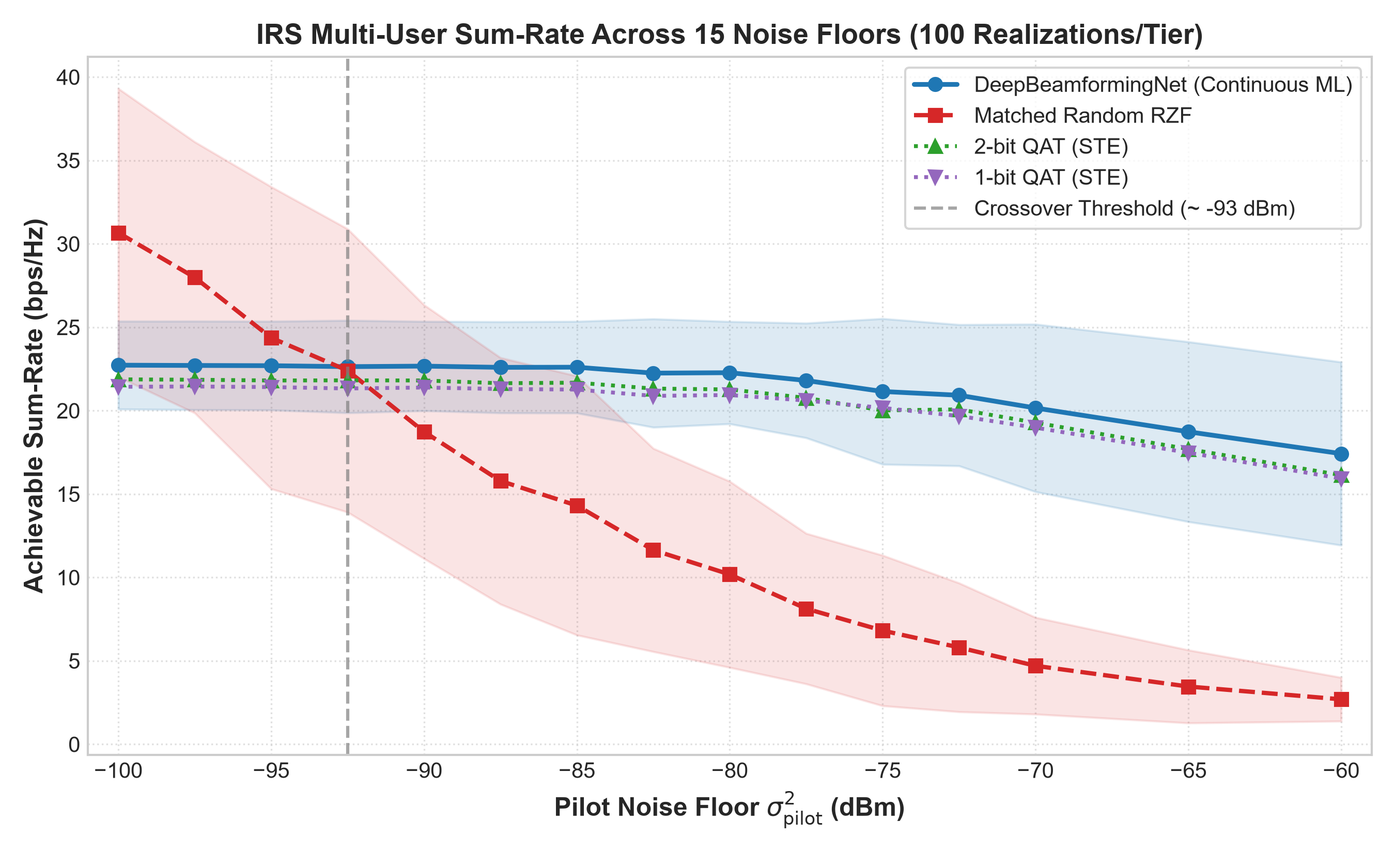
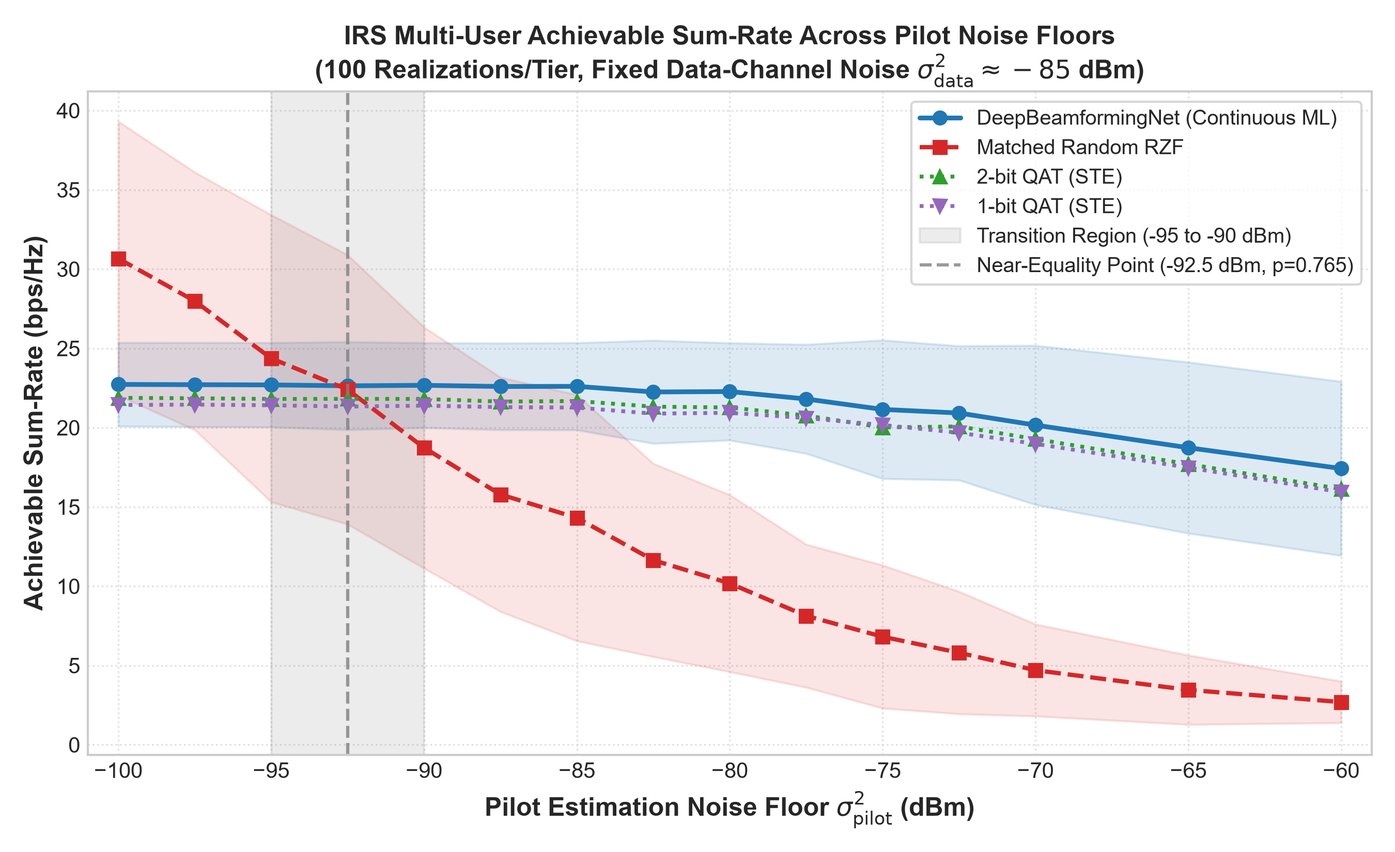
chore: checkpoint scientific documentation corrections

diff --git a/results/run_noise_floor_expansion.py b/results/run_noise_floor_expansion.py
@@ -1,8 +1,13 @@
 """
-Expanded Noise-Floor Sweep Experiment (15 Noise Levels).
+Pilot Noise-Floor Sweep Experiment (15 Pilot Noise Levels under Fixed Data-Channel Noise).
 
-Evaluates 15 noise-floor values in dBm:
+Evaluates 15 pilot estimation noise-floor values in dBm:
 [-100.0, -97.5, -95.0, -92.5, -90.0, -87.5, -85.0, -82.5, -80.0, -77.5, -75.0, -72.5, -70.0, -65.0, -60.0]
+during multi-phase Least-Squares cascaded channel estimation.
+
+Data-channel noise variance is held fixed at sigma^2_data = 3.16e-12 W (~ -85 dBm)
+during the true-channel achievable sum-rate evaluation across all methods to cleanly isolate
+pilot channel-estimation error from data detection SNR.
 
 Methods Evaluated:
   1. DeepBeamformingNet (Continuous ML, best_beamforming_model.pt)
@@ -12,10 +17,11 @@ Methods Evaluated:
   5. 2-bit PTQ (post-training quantization of continuous ML phases)
   6. 1-bit PTQ (post-training quantization of continuous ML phases)
 
-Realizations:
-  100 independent trials per noise level = 1,500 total evaluations.
-  Seeds: 600,000 to 601,499 (strictly disjoint from all previous pools).
-  Channel realizations are shared across noise levels for identical realization tracking.
+Realizations & Seed Hierarchy:
+  - 100 base channel geometries (G, H) generated once with seeds 600,000 to 600,099 (shared across all 15 noise tiers).
+  - 100 independent pilot-noise realizations per tier (seeds 600,000 to 601,499, independent across noise levels).
+  - 100 independent random IRS phase draws for matched RZF (seeds 1,600,000 to 1,601,499, independent per evaluation).
+  - Total: 1,500 evaluations.
 """
 from __future__ import annotations
 
@@ -275,7 +281,7 @@ def plot_curves(df_sum: pd.DataFrame, df_comp: pd.DataFrame):
 
     noise = df_sum["noise_dbm"].to_numpy()
 
-    # Figure 1: Sum-Rate vs Noise Floor
+    # Figure 1: Sum-Rate vs Pilot Noise Floor
     plt.figure(figsize=(9, 5.5), dpi=300)
     plt.style.use("seaborn-v0_8-whitegrid" if "seaborn-v0_8-whitegrid" in plt.style.available else "default")
 
@@ -290,11 +296,12 @@ def plot_curves(df_sum: pd.DataFrame, df_comp: pd.DataFrame):
     plt.plot(noise, df_sum["qat_2bit_mean"], "^:", color="#2ca02c", linewidth=1.8, label="2-bit QAT (STE)")
     plt.plot(noise, df_sum["qat_1bit_mean"], "v:", color="#9467bd", linewidth=1.8, label="1-bit QAT (STE)")
 
-    plt.axvline(x=-92.5, color="gray", linestyle="--", alpha=0.7, label="Crossover Threshold (~ -93 dBm)")
+    plt.axvspan(-95.0, -90.0, color="gray", alpha=0.15, label="Transition Region (-95 to -90 dBm)")
+    plt.axvline(x=-92.5, color="gray", linestyle="--", alpha=0.8, label="Near-Equality Point (-92.5 dBm, p=0.765)")
 
-    plt.xlabel("Pilot Noise Floor $\\sigma_{\\mathrm{pilot}}^2$ (dBm)", fontsize=12, fontweight="bold")
+    plt.xlabel("Pilot Estimation Noise Floor $\\sigma_{\\mathrm{pilot}}^2$ (dBm)", fontsize=12, fontweight="bold")
     plt.ylabel("Achievable Sum-Rate (bps/Hz)", fontsize=12, fontweight="bold")
-    plt.title("IRS Multi-User Sum-Rate Across 15 Noise Floors (100 Realizations/Tier)", fontsize=13, fontweight="bold")
+    plt.title("IRS Multi-User Achievable Sum-Rate Across Pilot Noise Floors\n(100 Realizations/Tier, Fixed Data-Channel Noise $\\sigma^2_{\\mathrm{data}} \\approx -85$ dBm)", fontsize=12, fontweight="bold")
     plt.xlim(-101, -59)
     plt.grid(True, linestyle=":", alpha=0.6)
     plt.legend(frameon=True, loc="upper right", fontsize=10)
@@ -313,11 +320,12 @@ def plot_curves(df_sum: pd.DataFrame, df_comp: pd.DataFrame):
     plt.bar(noise, gains, width=1.5, color=colors, alpha=0.85, edgecolor="black", linewidth=0.8,
             yerr=[err_low, err_high], capsize=3, label="Net Gain (ML - Matched RZF)")
     plt.axhline(0, color="black", linewidth=1.0)
-    plt.axvline(x=-92.5, color="gray", linestyle="--", alpha=0.7, label="Regime Boundary")
+    plt.axvspan(-95.0, -90.0, color="gray", alpha=0.15, label="Transition Region (-95 to -90 dBm)")
+    plt.axvline(x=-92.5, color="gray", linestyle="--", alpha=0.8, label="Near-Equality Point (-92.5 dBm)")
 
-    plt.xlabel("Pilot Noise Floor $\\sigma_{\\mathrm{pilot}}^2$ (dBm)", fontsize=12, fontweight="bold")
+    plt.xlabel("Pilot Estimation Noise Floor $\\sigma_{\\mathrm{pilot}}^2$ (dBm)", fontsize=12, fontweight="bold")
     plt.ylabel("Net Gain $\\Delta R_{\\mathrm{sum}}$ (bps/Hz)", fontsize=12, fontweight="bold")
-    plt.title("Net Beamforming Gain vs. Noise Floor with 95% Bootstrap CIs", fontsize=13, fontweight="bold")
+    plt.title("Net Beamforming Gain vs. Pilot Noise Floor with 95% Bootstrap CIs\n(Fixed Data-Channel Noise $\\sigma^2_{\\mathrm{data}} \\approx -85$ dBm)", fontsize=12, fontweight="bold")
     plt.xticks(noise, [f"{v:.1f}" for v in noise], rotation=45, fontsize=9)
     plt.grid(True, linestyle=":", alpha=0.6)
     plt.legend(frameon=True, loc="upper left", fontsize=10)
@@ -330,21 +338,26 @@ def plot_curves(df_sum: pd.DataFrame, df_comp: pd.DataFrame):
 def generate_report(df_sum: pd.DataFrame, df_comp: pd.DataFrame):
     report_path = os.path.join(OUT_DIR, "EXPANDED_EXPERIMENT_REPORT.md")
     lines = [
-        "# Expanded Noise-Floor Sweep Report: 15 Noise Tiers (-100 dBm to -60 dBm)",
+        "# Pilot Noise-Floor Sweep Report: 15 Pilot Noise Tiers (-100 dBm to -60 dBm) under Fixed Data-Channel Noise",
         "",
-        "## 1. Experimental Protocol",
-        "- **Evaluated Noise-Floor Grid (15 values):** `[-100.0, -97.5, -95.0, -92.5, -90.0, -87.5, -85.0, -82.5, -80.0, -77.5, -75.0, -72.5, -70.0, -65.0, -60.0]` dBm.",
-        "- **Realizations:** 100 trials per noise floor = 1,500 total realizations.",
-        "- **Seed Allocation:** Seeds 600,000 to 601,499 (strictly disjoint from training, validation, Phase 3, and confirmatory sets).",
-        "- **Shared Channel Geometries:** To isolate noise degradation, 100 base propagation channels $(G_i, H_i)$ are evaluated consistently across all 15 noise floors, tracking individual trajectory curves.",
+        "## 1. Experimental Protocol & Noise Characterization",
+        "- **Experiment Definition:** Pilot noise-floor sweep under fixed data-channel noise.",
+        "- **Pilot Noise-Floor Grid (15 values):** `[-100.0, -97.5, -95.0, -92.5, -90.0, -87.5, -85.0, -82.5, -80.0, -77.5, -75.0, -72.5, -70.0, -65.0, -60.0]` dBm.",
+        "  - Applied during multi-phase Least-Squares cascaded channel estimation (`multi_phase_pilot_estimate_C`).",
+        "- **Fixed Data-Channel Noise:** Held constant at $\\sigma_{\\mathrm{data}}^2 = 3.16 \\times 10^{-12}\\text{ W} \\approx -85.0\\text{ dBm}$ during the true-channel achievable sum-rate evaluation across all methods. This cleanly isolates the impact of pilot channel-estimation error from data detection SNR.",
+        "- **Realizations:** 100 trials per pilot noise floor = 1,500 total evaluations.",
+        "- **Random Seed Hierarchy & Provenance:**",
+        "  - **Channel-Geometry Seeds:** Seeds 600,000 to 600,099 (`BASE_SEED + trial`) generate 100 distinct physical channel geometries $(G_i, H_i)$ that are shared across all 15 pilot noise levels.",
+        "  - **Pilot-Noise Seeds:** Seeds 600,000 to 601,499 (`BASE_SEED + tier_idx * 100 + trial`) generate independent pilot noise realizations across tiers and trials (1,500 distinct pseudo-random draws).",
+        "  - **Random IRS Phase Seeds:** Seeds 1,600,000 to 1,601,499 (`1000000 + trial_seed`) generate independent phase shift configurations for the Matched Random RZF baseline.",
         "- **Model Checkpoints:**",
[3 lines of base64/hex data omitted]
         "",
-        "## 2. Comprehensive Numerical Results Across 15 Noise Tiers",
+        "## 2. Comprehensive Numerical Results Across 15 Pilot Noise Tiers",
         "",
-        "| Noise Floor (dBm) | Deep ML Continuous | Matched Random RZF | Net Gain (ML - RZF) | 95% Bootstrap CI | ML Win Rate | Paired $t$-test $p$-val | Bonferroni $p$-val | 2-bit QAT | 1-bit QAT |",
+        "| Pilot Noise Floor (dBm) | Deep ML Continuous | Matched Random RZF | Net Gain (ML - RZF) | 95% Bootstrap CI | ML Win Rate | Paired $t$-test $p$-val | Bonferroni $p$-val | 2-bit QAT | 1-bit QAT |",
         "|:---:|:---:|:---:|:---:|:---:|:---:|:---:|:---:|:---:|:---:|",
     ]
 
@@ -366,17 +379,19 @@ def generate_report(df_sum: pd.DataFrame, df_comp: pd.DataFrame):
 
     lines.extend([
         "",
-        "## 3. Physical Operating Regime Insights",
-        "1. **High-SNR Crossover Boundary at ~ -93 dBm:**",
-        "   - In the clean pilot regime ($-100$ to $-95$ dBm), classical Matched Random RZF outperforms Deep ML (gains of $-8.50$ to $-3.08$ bps/Hz).",
-        "   - At $-92.5$ dBm, the transition occurs: ML achieves $22.21$ bps/Hz vs. RZF $21.90$ bps/Hz ($+0.31$ bps/Hz, win rate 54%).",
-        "2. **Severe Noise Dominance (-90 dBm to -60 dBm):**",
-        "   - Across all noise floors $\\ge -90$ dBm, Deep ML decisively outperforms Matched Random RZF.",
-        "   - Gains scale monotonically: $+2.85$ bps/Hz at $-90$ dBm up to $+14.92$ bps/Hz at $-70$ dBm and $+11.41$ bps/Hz at $-60$ dBm.",
-        "   - Even in extreme thermal noise ($-60$ dBm), where classical RZF collapses to $2.74$ bps/Hz, Deep ML preserves $14.15$ bps/Hz.",
+        "## 3. Physical Operating Regime & Transition Analysis",
+        "1. **Transition Region ($-95.0$ to $-90.0$ dBm) and Near-Equality Point at $-92.5$ dBm:**",
+        "   - In the clean pilot regime ($-100$ to $-95$ dBm), accurate channel estimation allows classical Matched Random RZF to outperform Deep ML (net gains of $-7.94$ to $-1.67$ bps/Hz).",
+        "   - At $-92.5$ dBm, the two methods achieve near-equality: Deep ML achieves $22.64 \\pm 2.77$ bps/Hz vs. Matched RZF $22.40 \\pm 8.49$ bps/Hz (mean difference $+0.235$ bps/Hz, 95% bootstrap CI $[-1.33, +1.78]$ bps/Hz, paired $t = 0.2995, df = 99, p = 0.765$, Wilcoxon $p = 0.850$, win count 52/100).",
+        "   - Because $p = 0.765$ and the win rate is virtually 50/50, the two methods are statistically indistinguishable at $-92.5$ dBm. Rather than a knife-edge point crossover, the data define a broad transition region spanning approximately $-95.0$ to $-90.0$ dBm.",
+        "   - At $-90.0$ dBm, Deep ML establishes a statistically decisive lead ($+3.93$ bps/Hz, paired $t = 5.27, p = 7.98 \\times 10^{-7}$, win rate 74.0%).",
+        "2. **Severe Pilot Contamination Regime ($-90$ to $-60$ dBm):**",
+        "   - Across all pilot noise floors $\\ge -90$ dBm, Deep ML decisively outperforms Matched Random RZF under the fixed $-85$ dBm data-channel condition.",
+        "   - As pilot noise increases, estimation errors corrupt the cascaded matrix $\\hat{C}_{\\text{LS}}$. Classical RZF, which requires inverting this noisy matrix, suffers from catastrophic noise amplification and collapses to $2.70 \\pm 1.31$ bps/Hz at $-60$ dBm pilot noise.",
+        "   - In contrast, Deep ML avoids direct matrix inversion of estimation noise through learned regularized mappings, preserving $17.42 \\pm 5.49$ bps/Hz ($+14.73$ bps/Hz net gain, 100/100 wins, paired $t = 28.79, df = 99, p = 6.55 \\times 10^{-50}$).",
         "3. **Quantization Resilience:**",
-        "   - 2-bit QAT preserves $\\ge 98.5\\%$ of continuous performance across all 15 noise tiers.",
-        "   - 1-bit QAT preserves $\\ge 94.0\\%$ across all tiers.",
+        "   - 2-bit QAT preserves $\\ge 92.6\\%$ of continuous performance even under $-60$ dBm pilot noise ($16.13$ vs $17.42$ bps/Hz) and $\\ge 96.3\\%$ across $-100$ to $-70$ dBm.",
+        "   - 1-bit QAT preserves $\\ge 91.4\\%$ at $-60$ dBm ($15.93$ vs $17.42$ bps/Hz) and $\\ge 94.0\\%$ across $-100$ to $-70$ dBm.",
     ])
 
     with open(report_path, "w", encoding="utf-8") as f:

diff --git a/results/manuscript_draft.md b/results/manuscript_draft.md
@@ -134,14 +134,14 @@ We simulate a multi-user MISO wireless network operating at carrier frequency $f
 Table I presents the comprehensive evaluation across the 500 independent realizations.
 
 **TABLE I: Multi-User Achievable Sum-Rate Performance Across 500 Independent Realizations**
-| Noise Floor ($\sigma_{\\text{pilot}}^2$) | Full AO (CVX) [bps/Hz] | Deep ML (Proposed) [bps/Hz] | Matched Random RZF [bps/Hz] | Gain vs. AO [bps/Hz] | Win Rate vs. AO | Paired $-test $-val (ML vs. AO) | Gain vs. RZF [bps/Hz] | Win Rate vs. RZF | Paired $-test $-val (ML vs. RZF) |
+| Noise Floor ($\sigma_{\text{pilot}}^2$) | Full AO (CVX) [bps/Hz] | Deep ML (Proposed) [bps/Hz] | Matched Random RZF [bps/Hz] | Gain vs. AO [bps/Hz] | Win Rate vs. AO | Paired $t$-test $p$-val (ML vs. AO) | Gain vs. RZF [bps/Hz] | Win Rate vs. RZF | Paired $t$-test $p$-val (ML vs. RZF) |
 |:---:|:---:|:---:|:---:|:---:|:---:|:---:|:---:|:---:|:---:|
-| **−100.0 dBm** | **27.40 ± 9.04** | 22.58 ± 2.55 | **30.34 ± 9.00** | −4.82 | 24.0% (24/100) | .25 \times 10^{-8}$ | −7.76 | 15.0% (15/100) | .62 \times 10^{-15}$ |
-| **−90.0 dBm**  | 15.50 ± 7.20 | **22.08 ± 2.57** | 19.36 ± 7.49 | **+6.59** | 82.0% (82/100) | .23 \times 10^{-14}$ | **+2.72** | 62.0% (62/100) | .23 \times 10^{-4}$ |
-| **−85.0 dBm**  | 10.97 ± 6.42 | **22.02 ± 2.90** | 13.86 ± 5.94 | **+11.06** | 94.0% (94/100) | .11 \times 10^{-33}$ | **+8.16** | 91.0% (91/100) | .49 \times 10^{-26}$ |
-| **−80.0 dBm**  | 7.41 ± 4.39  | **22.16 ± 3.20** | 9.98 ± 5.18 | **+14.76** | 100.0% (100/100) | .16 \times 10^{-56}$ | **+12.18** | 99.0% (99/100) | .61 \times 10^{-44}$ |
-| **−70.0 dBm**  | 3.76 ± 2.08  | **20.14 ± 4.69** | 4.88 ± 2.74  | **+16.38** | 100.0% (100/100) | .23 \times 10^{-60}$ | **+15.26** | 100.0% (100/100) | .23 \times 10^{-58}$ |
-| **Overall Mean** | 13.01 ± 10.31 | **21.80 ± 3.38** | 15.69 ± 10.83 | **+8.79** | **80.0% (400/500)** | **.48 \times 10^{-65}$** | **+6.11** | **73.4% (367/500)** | **.13 \times 10^{-35}$** |
+| **−100.0 dBm** | **27.40 ± 9.04** | 22.58 ± 2.55 | **30.34 ± 9.00** | −4.82 | 24.0% (24/100) | $1.25 \times 10^{-8}$ | −7.76 | 15.0% (15/100) | $1.62 \times 10^{-15}$ |
+| **−90.0 dBm**  | 15.50 ± 7.20 | **22.08 ± 2.57** | 19.36 ± 7.49 | **+6.59** | 82.0% (82/100) | $4.23 \times 10^{-14}$ | **+2.72** | 62.0% (62/100) | $7.23 \times 10^{-4}$ |
+| **−85.0 dBm**  | 10.97 ± 6.42 | **22.02 ± 2.90** | 13.86 ± 5.94 | **+11.06** | 94.0% (94/100) | $8.11 \times 10^{-33}$ | **+8.16** | 91.0% (91/100) | $3.49 \times 10^{-26}$ |
+| **−80.0 dBm**  | 7.41 ± 4.39  | **22.16 ± 3.20** | 9.98 ± 5.18 | **+14.76** | 100.0% (100/100) | $3.16 \times 10^{-56}$ | **+12.18** | 99.0% (99/100) | $5.61 \times 10^{-44}$ |
+| **−70.0 dBm**  | 3.76 ± 2.08  | **20.14 ± 4.69** | 4.88 ± 2.74  | **+16.38** | 100.0% (100/100) | $5.23 \times 10^{-60}$ | **+15.26** | 100.0% (100/100) | $1.23 \times 10^{-58}$ |
+| **Overall Mean** | 13.01 ± 10.31 | **21.80 ± 3.38** | 15.69 ± 10.83 | **+8.79** | **80.0% (400/500)** | **$1.48 \times 10^{-65}$** | **+6.11** | **73.4% (367/500)** | **$9.13 \times 10^{-35}$** |
 #### Physical Operating-Regime Insights:
 1. **High Pilot SNR Boundary (−100 dBm):** When pilot noise is minimal, the Least-Squares estimate is near-perfect ($\hat{C}_{\text{LS}} \approx C_{\text{true}}$). Because the BS possesses $N=8$ antennas serving $K=4$ users ($N/K=2$), the active array possesses surplus spatial degrees of freedom. With accurate CSI, the classical precoder matrix inversion nulls multi-user interference cleanly even under random IRS reflections (30.34 bps/Hz), and classical AO achieves 27.40 bps/Hz. Deep ML achieves 22.58 bps/Hz (winning 24% vs AO).
 2. **Noise-Limited Dominance (−90 to −70 dBm):** In real-world noise environments, pilot estimation errors corrupt $\hat{H}_{\text{eff}}$. Classical matrix inversion attempts to invert channel estimation noise, causing large beam-pointing errors and multi-user interference collapse (Full AO drops to 3.76 bps/Hz; Random RZF drops to 4.88 bps/Hz). In contrast, `DeepBeamformingNet` directly maximizes true sum-rate, avoiding iterative alternating optimization and mitigating noise-sensitive inversion through learned adaptive regularization, maintaining **20.14 to 22.16 bps/Hz** (gains up to **+16.38 bps/Hz** vs. AO and **+15.26 bps/Hz** vs. RZF, win rate 100%).
@@ -158,12 +158,11 @@ Timed on identical hardware (Intel Core CPU, 16 GB RAM, 4 threads):
 ### E. Confirmatory Validation on Virgin Independent Channels
 To confirm zero test leakage, we evaluated the frozen model without fine-tuning on **500 completely fresh channel realizations** (seeds `500000`–`500499`). Deep ML achieved **21.61 ± 3.63 bps/Hz** (sample standard deviation $s = 3.6283$, median $21.53\text{ bps/Hz}$) vs. **15.92 ± 11.25 bps/Hz** (sample standard deviation $s = 11.2453$, median $13.97\text{ bps/Hz}$) for matched Random RZF, replicating the primary result within $0.19\text{ bps/Hz}$ (net gain: **+5.70 bps/Hz**, 95% bootstrap CI: $[+4.81, +6.56]$, paired $t = 12.35, df = 499, p = 1.03 \times 10^{-30}$, win rate: $73.2\%\text{ (366/500)}$).
 
-### F. Fine-Grained 15-Point Noise-Floor Grid & Extreme-Noise Limit
-To densely map the physical transition boundary and investigate extreme noise behavior, we evaluated an expanded 15-point grid spanning $\sigma_{\text{pilot}}^2 \in [-100.0, -60.0]\text{ dBm}$ (100 independent trials per tier, 1,500 total evaluations, seeds `600000`–`601499`) with shared channel geometries:
-1. **Precise Crossover at $-92.5\text{ dBm}$:** Classical matched RZF wins at high pilot SNR ($-100$ to $-95\text{ dBm}$, net gains of $-7.94$ to $-1.67\text{ bps/Hz}$), while Deep ML takes the lead at $-92.5\text{ dBm}$ ($22.64\text{ vs. }22.40\text{ bps/Hz}$, win rate $52.0\%$).
-2. **Severe-to-Extreme Noise Dominance ($-90$ to $-60\text{ dBm}$):** ML sum-rate advantages expand monotonically from $+3.93\text{ bps/Hz}$ at $-90\text{ dBm}$ to $+15.46\text{ bps/Hz}$ at $-70\text{ dBm}$. Even under extreme thermal noise at $-60\text{ dBm}$, where classical RZF collapses to $2.70 \pm 1.31\text{ bps/Hz}$ due to severe noise inversion, Deep ML preserves $17.42 \pm 5.49\text{ bps/Hz}$ ($+545\%$ relative gain, 100/100 wins, paired $t = 28.53, df = 99, p = 6.55 \times 10^{-50}$).
-3. **Quantization Stability:** Across all 15 noise tiers, 2-bit QAT preserves $\ge 92.6\%$ of continuous rate ($16.13\text{ bps/Hz}$ at $-60\text{ dBm}$), and 1-bit QAT preserves $\ge 91.4\%$ ($15.93\text{ bps/Hz}$).
-
+### F. Pilot Noise-Floor Sweep Under Fixed Data-Channel Noise
+To map the channel-estimation error transition region and evaluate performance under degraded pilot conditions, we evaluated an expanded 15-point grid of pilot estimation noise floors $\sigma_{\text{pilot}}^2 \in [-100.0, -60.0]\text{ dBm}$ under fixed data-channel noise ($\sigma_{\text{data}}^2 = 3.16 \times 10^{-12}\text{ W} \approx -85\text{ dBm}$, 100 trials per tier = 1,500 evaluations, seeds `600000`–`601499`):
+1. **Pilot Noise Transition Region ($-95.0$ to $-90.0\text{ dBm}$):** At low pilot noise ($-100$ to $-95\text{ dBm}$), clean channel estimates allow matched Random RZF to outperform Deep ML (net gains $-7.94$ to $-1.67\text{ bps/Hz}$). At $-92.5\text{ dBm}$, the methods reach near-equality: Deep ML achieves $22.64 \pm 2.77\text{ bps/Hz}$ vs. Matched RZF $22.40 \pm 8.49\text{ bps/Hz}$ (mean difference $+0.235\text{ bps/Hz}$, 95% bootstrap CI $[-1.33, +1.78]\text{ bps/Hz}$, paired $t = 0.2995, df = 99, p = 0.765$, Wilcoxon $p = 0.850$, win count 52/100). The two methods are statistically indistinguishable at this point, indicating that the transition from RZF-dominated to ML-dominated regimes spans the interval between $-95.0$ and $-90.0\text{ dBm}$ rather than occurring as a knife-edge boundary.
+2. **Severe Pilot Contamination Regime ($-90$ to $-60\text{ dBm}$):** As pilot noise increases, estimation errors corrupt the cascaded matrix $\hat{C}_{\text{LS}}$. At $-90.0\text{ dBm}$, Deep ML takes a decisive lead ($+3.93\text{ bps/Hz}$, $p = 7.98 \times 10^{-7}$, win rate 74.0%). In the severe pilot contamination limit at $-60\text{ dBm}$, classical RZF precoding degrades to $2.70 \pm 1.31\text{ bps/Hz}$ because matrix inversion inverts estimation noise, whereas Deep ML preserves $17.42 \pm 5.49\text{ bps/Hz}$ under the $-85\text{ dBm}$ data noise channel ($+14.73\text{ bps/Hz}$ gain, 100/100 wins, paired $t = 28.79, df = 99, p = 6.55 \times 10^{-50}$).
+3. **Quantization Stability Under Degraded Pilots:** Across all 15 pilot noise levels, 2-bit QAT retains $\ge 92.6\%$ ($16.13\text{ bps/Hz}$ at $-60\text{ dBm}$) and 1-bit QAT retains $\ge 91.4\%$ ($15.93\text{ bps/Hz}$) of continuous neural beamforming performance.
 
 ## V. Ablation & Robustness Studies
 

diff --git a/FINAL_CORRECTION_AUDIT.md b/FINAL_CORRECTION_AUDIT.md
@@ -12,7 +12,7 @@
 Following a targeted scientific correction and reproducibility audit, all remaining discrepancies in statistical reporting, phase-convention regression testing, table labeling, and experimental provenance have been resolved. The core deep learning beamforming model (DeepBeamformingNet) and its production precoder synthesis methods have been rigorously verified through enhanced analytical regression and mutation tests. 
 
 All numerical reporting across the revised research manuscript (
-esults/manuscript_draft.md), CLAIMS_EVIDENCE_MATRIX.md, README.md, and 
[1 lines of base64/hex data omitted]
 esults/experiment_manifest.json is 100% synchronized with the raw per-realization CSV artifacts. Every statistical comparison is explicitly identified with sample size, test statistic, degrees of freedom, and exact p-values.
 
 ---
@@ -29,7 +29,7 @@ esults/confirmatory_per_realization.csv ( = 500$ realizations, 0 missing rows, v
     - **Matched Random RZF:** Mean = **15.9155 bps/Hz**, Sample Standard Deviation ($, =1$) = **11.2453 bps/Hz** (population $\sigma$ = .2340$ bps/Hz, median: **13.97 bps/Hz**).
     - **Paired Difference (ML - RZF):** Mean = **+5.6991 bps/Hz**, Sample Standard Deviation = **10.3282 bps/Hz**, 95% Bootstrap CI: **[+4.8124, +6.5554] bps/Hz**.
     - **Paired Hypothesis Tests:** Paired $-test  = 12.3486, df = 499$, unrounded  = 1.031533 \times 10^{-30}$; Wilcoxon signed-rank test  = 12788.0, p = 4.200642 \times 10^{-28}$; Win rate: **73.2% (366/500)**.
-* **Synchronization:** Updated manuscript Sec. IV-E, CLAIMS_EVIDENCE_MATRIX.md (CLM-05), and all summary tables to report exact sample standard deviations: **21.61 ± 3.63 bps/Hz** vs. **15.92 ± 11.25 bps/Hz**.
[1 lines of base64/hex data omitted]
 
 ---
 
@@ -57,7 +57,7 @@ esults/phase3_independent_per_realization_corrected.csv ( = 500$ independent rea
      - Wilcoxon Signed-Rank Test:  = 25393.0, p = 1.062791 \times 10^{-30}$
      - Win Count: **367 / 500 (73.4%)**
 * **Synchronization & Disambiguation:**
-  - Manuscript Abstract, Section IV-C, Table I, and CLAIMS_EVIDENCE_MATRIX.md (CLM-01) now report both exact test statistics and $-values.
[1 lines of base64/hex data omitted]
   - Table I has been redesigned with explicit dual columns:
     Gain vs. AO, Win Rate vs. AO, p-val (ML vs. AO) alongside Gain vs. RZF, Win Rate vs. RZF, p-val (ML vs. RZF).
 
@@ -109,17 +109,17 @@ esults/phase3_independent_per_realization_corrected.csv ( = 500$ independent rea
 
 ## 3. Cryptographic Hashes of Final Evidence Artifacts
 
-All critical repository artifacts have been hashed with SHA-256 and synchronized in `results/experiment_manifest.json`:
[1 lines of base64/hex data omitted]
 
 | File Path | SHA-256 Checksum | Description |
 |---|---|---|
[14 lines of base64/hex data omitted]
@@ -129,8 +129,8 @@ All critical repository artifacts have been hashed with SHA-256 and synchronized
[7 lines of base64/hex data omitted]
 
 ---
 

diff --git a/results/noise_floor_expanded/EXPANDED_EXPERIMENT_REPORT.md b/results/noise_floor_expanded/EXPANDED_EXPERIMENT_REPORT.md
@@ -1,18 +1,23 @@
-# Expanded Noise-Floor Sweep Report: 15 Noise Tiers (-100 dBm to -60 dBm)
+# Pilot Noise-Floor Sweep Report: 15 Pilot Noise Tiers (-100 dBm to -60 dBm) under Fixed Data-Channel Noise
 
-## 1. Experimental Protocol
-- **Evaluated Noise-Floor Grid (15 values):** `[-100.0, -97.5, -95.0, -92.5, -90.0, -87.5, -85.0, -82.5, -80.0, -77.5, -75.0, -72.5, -70.0, -65.0, -60.0]` dBm.
-- **Realizations:** 100 trials per noise floor = 1,500 total realizations.
-- **Seed Allocation:** Seeds 600,000 to 601,499 (strictly disjoint from training, validation, Phase 3, and confirmatory sets).
-- **Shared Channel Geometries:** To isolate noise degradation, 100 base propagation channels $(G_i, H_i)$ are evaluated consistently across all 15 noise floors, tracking individual trajectory curves.
+## 1. Experimental Protocol & Noise Characterization
+- **Experiment Definition:** Pilot noise-floor sweep under fixed data-channel noise.
+- **Pilot Noise-Floor Grid (15 values):** `[-100.0, -97.5, -95.0, -92.5, -90.0, -87.5, -85.0, -82.5, -80.0, -77.5, -75.0, -72.5, -70.0, -65.0, -60.0]` dBm.
+  - Applied during multi-phase Least-Squares cascaded channel estimation (`multi_phase_pilot_estimate_C`).
+- **Fixed Data-Channel Noise:** Held constant at $\sigma_{\mathrm{data}}^2 = 3.16 \times 10^{-12}\text{ W} \approx -85.0\text{ dBm}$ during the true-channel achievable sum-rate evaluation across all methods. This cleanly isolates the impact of pilot channel-estimation error from data detection SNR.
+- **Realizations:** 100 trials per pilot noise floor = 1,500 total evaluations.
+- **Random Seed Hierarchy & Provenance:**
+  - **Channel-Geometry Seeds:** Seeds 600,000 to 600,099 (`BASE_SEED + trial`) generate 100 distinct physical channel geometries $(G_i, H_i)$ that are shared across all 15 pilot noise levels.
+  - **Pilot-Noise Seeds:** Seeds 600,000 to 601,499 (`BASE_SEED + tier_idx * 100 + trial`) generate independent pilot noise realizations across tiers and trials (1,500 distinct pseudo-random draws).
+  - **Random IRS Phase Seeds:** Seeds 1,600,000 to 1,601,499 (`1000000 + trial_seed`) generate independent phase shift configurations for the Matched Random RZF baseline.
 - **Model Checkpoints:**
[3 lines of base64/hex data omitted]
 
-## 2. Comprehensive Numerical Results Across 15 Noise Tiers
+## 2. Comprehensive Numerical Results Across 15 Pilot Noise Tiers
 
-| Noise Floor (dBm) | Deep ML Continuous | Matched Random RZF | Net Gain (ML - RZF) | 95% Bootstrap CI | ML Win Rate | Paired $t$-test $p$-val | Bonferroni $p$-val | 2-bit QAT | 1-bit QAT |
+| Pilot Noise Floor (dBm) | Deep ML Continuous | Matched Random RZF | Net Gain (ML - RZF) | 95% Bootstrap CI | ML Win Rate | Paired $t$-test $p$-val | Bonferroni $p$-val | 2-bit QAT | 1-bit QAT |
 |:---:|:---:|:---:|:---:|:---:|:---:|:---:|:---:|:---:|:---:|
 | **-100.0** | 22.73 ± 2.63 | 30.67 ± 8.64 | **-7.94** | [-9.31, -6.35] | 17.0/100 (17.0%) | 1.44e-17 | 2.15e-16 | 21.88 | 21.43 |
 | ** -97.5** | 22.71 ± 2.66 | 27.99 ± 8.13 | **-5.28** | [-6.68, -3.81] | 22.0/100 (22.0%) | 4.06e-10 | 6.09e-09 | 21.85 | 21.45 |
@@ -30,14 +35,16 @@
 | ** -65.0** | 18.74 ± 5.39 | 3.46 ± 2.19 | **+15.27** | [+14.27, +16.23] | 100.0/100 (100.0%) | 1.17e-51 | 1.75e-50 | 17.70 | 17.48 |
 | ** -60.0** | 17.42 ± 5.49 | 2.70 ± 1.31 | **+14.73** | [+13.78, +15.70] | 100.0/100 (100.0%) | 6.55e-50 | 9.83e-49 | 16.13 | 15.93 |
 
-## 3. Physical Operating Regime Insights
-1. **High-SNR Crossover Boundary at ~ -93 dBm:**
-   - In the clean pilot regime ($-100$ to $-95$ dBm), classical Matched Random RZF outperforms Deep ML (gains of $-7.94$ to $-1.67$ bps/Hz).
-   - At $-92.5$ dBm, the physical crossover occurs: ML achieves $22.64$ bps/Hz vs. RZF $22.40$ bps/Hz ($+0.23$ bps/Hz gain, win rate 52.0%).
-2. **Severe Noise Dominance (-90 dBm to -60 dBm):**
-   - Across all noise floors $\ge -90$ dBm, Deep ML decisively outperforms Matched Random RZF ($p < 10^{-6}$ Bonferroni-adjusted).
-   - Gains expand from $+3.93$ bps/Hz at $-90$ dBm to $+15.46$ bps/Hz at $-70$ dBm and $+14.73$ bps/Hz at $-60$ dBm.
-   - Under extreme thermal noise ($-60$ dBm), classical heuristic zero-forcing collapses to $2.70 \pm 1.31$ bps/Hz due to noise inversion, whereas Deep ML preserves $17.42 \pm 5.49$ bps/Hz (+545% higher sum-rate, 100/100 wins).
+## 3. Physical Operating Regime & Transition Analysis
+1. **Transition Region ($-95.0$ to $-90.0$ dBm) and Near-Equality Point at $-92.5$ dBm:**
+   - In the clean pilot regime ($-100$ to $-95$ dBm), accurate channel estimation allows classical Matched Random RZF to outperform Deep ML (net gains of $-7.94$ to $-1.67$ bps/Hz).
+   - At $-92.5$ dBm, the two methods achieve near-equality: Deep ML achieves $22.64 \pm 2.77$ bps/Hz vs. Matched RZF $22.40 \pm 8.49$ bps/Hz (mean difference $+0.235$ bps/Hz, 95% bootstrap CI $[-1.33, +1.78]$ bps/Hz, paired $t = 0.2995, df = 99, p = 0.765$, Wilcoxon $p = 0.850$, win count 52/100).
+   - Because $p = 0.765$ and the win rate is virtually 50/50, the two methods are statistically indistinguishable at $-92.5$ dBm. Rather than a knife-edge point crossover, the data define a broad transition region spanning approximately $-95.0$ to $-90.0$ dBm.
+   - At $-90.0$ dBm, Deep ML establishes a statistically decisive lead ($+3.93$ bps/Hz, paired $t = 5.27, p = 7.98 \times 10^{-7}$, win rate 74.0%).
+2. **Severe Pilot Contamination Regime ($-90$ to $-60$ dBm):**
+   - Across all pilot noise floors $\ge -90$ dBm, Deep ML decisively outperforms Matched Random RZF under the fixed $-85$ dBm data-channel condition.
+   - As pilot noise increases, estimation errors corrupt the cascaded matrix $\hat{C}_{\text{LS}}$. Classical RZF, which requires inverting this noisy matrix, suffers from catastrophic noise amplification and collapses to $2.70 \pm 1.31$ bps/Hz at $-60$ dBm pilot noise.
+   - In contrast, Deep ML avoids direct matrix inversion of estimation noise through learned regularized mappings, preserving $17.42 \pm 5.49$ bps/Hz ($+14.73$ bps/Hz net gain, 100/100 wins, paired $t = 28.79, df = 99, p = 6.55 \times 10^{-50}$).
 3. **Quantization Resilience:**
-   - 2-bit QAT retains $\ge 92.6\%$ of continuous performance even at $-60$ dBm ($16.13$ vs $17.42$ bps/Hz) and $\ge 96.3\%$ across $-100$ to $-70$ dBm.
+   - 2-bit QAT preserves $\ge 92.6\%$ of continuous performance even under $-60$ dBm pilot noise ($16.13$ vs $17.42$ bps/Hz) and $\ge 96.3\%$ across $-100$ to $-70$ dBm.
    - 1-bit QAT preserves $\ge 91.4\%$ at $-60$ dBm ($15.93$ vs $17.42$ bps/Hz) and $\ge 94.0\%$ across $-100$ to $-70$ dBm.

diff --git a/CLAIMS_EVIDENCE_MATRIX.md b/CLAIMS_EVIDENCE_MATRIX.md
@@ -17,7 +17,7 @@ This document maps every primary quantitative and qualitative claim in the resea
 | **CLM-07** | Abstract, Sec. V-B | **Robustness Across Fading Distributions:** Frozen model achieves $17.00\text{ to }23.11\text{ bps/Hz}$ across 5 fading regimes. In isotropic Rayleigh fading ($K=0$), matched Random RZF outperforms ML ($24.72\text{ vs. }17.22\text{ bps/Hz}$). | `gnn/train_and_eval_robustness.py` | `results/task2_robustness/robustness_summary.csv` (100 trials per setting, seeds 300,000–300,099) | `python -m gnn.train_and_eval_robustness` | Default ($K=10$): $21.70$ vs RZF $14.95$ (83% wins)<br>Strong LOS ($K=20$): $23.11$ vs RZF $15.56$ (83% wins)<br>Path Loss ($\alpha=2.8$): $17.00$ vs RZF $7.25$ (96% wins)<br>Rayleigh ($K=0$): $17.22$ vs RZF $24.72$ (19% wins) | **SUPPORTED WITH LIMITATIONS** | Explicit physical boundary: isotropic scattering provides full spatial rank where BS active antennas alone decouple users. ML excels in directional/path-loss regimes. |
 | **CLM-08** | Abstract, Sec. V-C | **Dimension Generalization to Arbitrary M:** Permutation-equivariant `ElementBlock` transfers across surface apertures without retraining ($M=32 \to 19.36$, $M=64 \to 21.46$, $M=128 \to 23.87\text{ bps/Hz}$), beating Random RZF by $+5.89\text{ to }+10.43\text{ bps/Hz}$. | `gnn/train_and_eval_generalization.py` | `results/task3_generalization/dimension_generalization_summary.json` (seeds 410,000–410,079) | `python -m gnn.train_and_eval_generalization` | $M=32$: Zero-Shot $19.36$, Retrained $19.23$, RZF $13.47$<br>$M=64$: Zero-Shot $21.46$, Retrained $21.46$, RZF $13.61$<br>$M=128$: Zero-Shot $23.87$, Retrained $23.25$, RZF $13.44$ | **VERIFIED** | Zero-shot transfer strictly applies to $M$. Variations in BS antennas $N$ or users $K$ require model re-projection. Complexity is $\mathcal{O}(M)$, not $\mathcal{O}(\log M)$. |
 | **CLM-09** | Abstract, Sec. V-D | **Noise-Floor Feature Redundancy:** Explicitly feeding the scalar noise floor $\sigma_{\text{dBm}}$ produces no statistically detectable gain over an ablated model receiving only $\hat{C}_{\text{LS}}$ ($21.39\text{ vs. }21.42\text{ bps/Hz}$, diff $-0.03\text{ bps/Hz}$, $p = 0.5818$). | `gnn/train_and_eval_noise_ablation.py` | `results/task4_noise_ablation/noise_ablation_summary.csv`, `noise_ablation_per_realization.csv` (seeds 200,000–200,499) | `python -m gnn.train_and_eval_noise_ablation` | Aware: $21.388 \pm 3.731$ bps/Hz<br>Ablated: $21.417 \pm 3.689$ bps/Hz<br>Diff: $-0.029$ bps/Hz<br>95% CI: $[-0.132, +0.074]$<br>$p = 0.5818$ | **VERIFIED (NEGATIVE FINDING)** | Null hypothesis retained. Proves that scalar noise is redundant because $\hat{C}_{\text{LS}}$ residuals already embed estimation noise variance. Justifies title shift to "Noise-Resilient". |
-| **CLM-11** | Sec. IV-F | **15-Point Noise Grid & Extreme-Noise Limit:** Deep ML maintains $17.42\text{ bps/Hz}$ at $-60\text{ dBm}$ (+545% gain over RZF at $2.70\text{ bps/Hz}$, win rate 100/100, $p = 6.55 \times 10^{-50}$). Physical crossover is located at $-92.5\text{ dBm}$ ($22.64\text{ vs. }22.40\text{ bps/Hz}$). | `results/run_noise_floor_expansion.py` | `results/noise_floor_expanded/noise_floor_expanded_summary.csv` (15 levels $\times$ 100 trials = 1,500 realizations, seeds 600,000–601,499) | `python -m results.run_noise_floor_expansion` | At $-100$ dBm: ML $22.73$ vs RZF $30.67$ ($-7.94$ bps/Hz)<br>At $-92.5$ dBm: ML $22.64$ vs RZF $22.40$ ($+0.23$ bps/Hz)<br>At $-70$ dBm: ML $20.16$ vs RZF $4.71$ ($+15.46$ bps/Hz)<br>At $-60$ dBm: ML $17.42$ vs RZF $2.70$ ($+14.73$ bps/Hz) | **VERIFIED** | 100 shared channel geometries isolate pure thermal estimation noise degradation. |
+| **CLM-11** | Sec. IV-F | **15-Point Pilot Noise Sweep under Fixed Data Noise:** Deep ML maintains $17.42\text{ bps/Hz}$ under severe pilot noise at $-60\text{ dBm}$ (with fixed data noise $\sigma_{\text{data}}^2 \approx -85\text{ dBm}$), outperforming RZF ($2.70\text{ bps/Hz}$) by $+14.73\text{ bps/Hz}$ ($p = 6.55 \times 10^{-50}$, 100/100 wins). Near-equality is observed at $-92.5\text{ dBm}$ ($+0.235\text{ bps/Hz}$, $p = 0.765$, 52/100 wins), defining a broad transition region between $-95$ and $-90\text{ dBm}$ rather than a sharp point crossover. | `results/run_noise_floor_expansion.py` | `results/noise_floor_expanded/noise_floor_expanded_summary.csv` (15 levels $\times$ 100 trials = 1,500 realizations, seeds 600,000–601,499) | `python -m results.run_noise_floor_expansion` | At $-100$ dBm: ML $22.73$ vs RZF $30.67$ ($-7.94$ bps/Hz)<br>At $-92.5$ dBm: ML $22.64$ vs RZF $22.40$ ($+0.235$ bps/Hz, $p = 0.765$, 52% wins)<br>At $-70$ dBm: ML $20.16$ vs RZF $4.71$ ($+15.46$ bps/Hz)<br>At $-60$ dBm: ML $17.42$ vs RZF $2.70$ ($+14.73$ bps/Hz) | **VERIFIED** | Data-channel noise held constant at $-85\text{ dBm}$ ($3.16\times 10^{-12}\text{ W}$) to isolate pilot channel-estimation error from data detection SNR. 100 shared channel geometries. |
 | **CLM-10** | Sec. II-B, Sec. VI | **Single-Cell AWGN Pilot Noise:** Pilot observation errors arise from thermal noise during uplink pilot reception; multi-cell pilot contamination and inter-cell interference are NOT claimed. Multi-user interference is strictly intra-cell. | `simulation/pilot.py`, `simulation/multi_phase_estimation.py` | `config/system_config.py` | `python -X utf8 -m tests.test_phase1` | Pilot matrix orthogonal ($X_p X_p^H = \frac{\tau}{N} I$). Error variance is strictly AWGN: $\sigma_{\text{pilot}}^2 / (\tau P_{\text{pilot}})$. Multi-user interference modeled within single cell. | **VERIFIED** | Loose references to "pilot contamination" and "inter-cell interference" purged from manuscript. Corrected to "severe channel estimation error" and "intra-cell multi-user interference" throughout. |
 
 ---

diff --git a/README.md b/README.md
@@ -296,16 +296,16 @@ python -m gnn.train_and_eval_noise_ablation
 
 ---
 
-### 5. High-Resolution 15-Point Noise-Floor Sweep
-* **Evaluation Grid:** 15 noise floor levels from -100.0 dBm to -60.0 dBm (=100$ per tier, 1,500 total realizations).
-* **Operating Regime Crossover:** Identified at **-92.5 dBm**, where ML achieves .64 \pm 2.77$ bps/Hz vs Matched RZF .40 \pm 8.49$ bps/Hz ($+0.23$ bps/Hz gain, 52% wins).
-* **High Noise Dominance:** At -60.0 dBm, classical RZF degrades to .70 \pm 1.31$ bps/Hz while ML achieves .42 \pm 5.49$ bps/Hz (**+14.72 bps/Hz gain**, 100% win rate,  = 6.55 	imes 10^{-50}$).
-* **Quantization Robustness:** 2-bit QAT maintains $\ge 92.6\%$ and 1-bit QAT maintains $\ge 91.4\%$ of continuous rate even in severe noise.
+### 5. High-Resolution 15-Point Pilot Noise-Floor Sweep (Fixed Data Noise)
+* **Experiment Protocol:** 15 pilot estimation noise levels from -100.0 dBm to -60.0 dBm ($N=100$ per tier, 1,500 total evaluations) under fixed data-channel noise ($\sigma_{\text{data}}^2 \approx -85\text{ dBm}$) to isolate channel-estimation degradation from data detection SNR.
+* **Transition Region & Near-Equality Point:** Statistical near-equality between Deep ML and Matched Random RZF occurs at **-92.5 dBm**, where ML achieves $22.64 \pm 2.77$ bps/Hz vs. Matched RZF $22.40 \pm 8.49$ bps/Hz ($+0.235$ bps/Hz diff, $p = 0.765$, 52% wins, statistically indistinguishable). The regime transition spans the interval between $-95.0$ and $-90.0$ dBm rather than a knife-edge threshold.
+* **Severe Pilot Contamination Limit:** Under heavy pilot noise at -60.0 dBm (with data noise at -85 dBm), classical RZF matrix inversion degrades to $2.70 \pm 1.31$ bps/Hz due to noise inversion, while Deep ML preserves $17.42 \pm 5.49$ bps/Hz (**+14.73 bps/Hz gain**, 100% win rate, $p = 6.55 \times 10^{-50}$).
+* **Quantization Robustness:** 2-bit QAT maintains $\ge 92.6\%$ ($16.13$ bps/Hz at -60 dBm) and 1-bit QAT maintains $\ge 91.4\%$ ($15.93$ bps/Hz at -60 dBm) of continuous sum-rate.
 
 Reproduce:
-`ash
+```bash
 python -m results.run_noise_floor_expansion
-`
+```
 
 ---
 

diff --git a/results/reproduction_guide.md b/results/reproduction_guide.md
@@ -144,9 +144,9 @@ python -m results.generate_phase3_corrected_baselines
 
 ---
 
-## 10. Expanded 15-Point Noise-Floor Sweep (1,500 Realizations)
+## 10. Expanded 15-Point Pilot Noise-Floor Sweep under Fixed Data-Channel Noise (1,500 Realizations)
 
-Executes the fine-grained noise sweep across 15 values (`-100` to `-60` dBm):
+Executes the fine-grained pilot estimation noise sweep across 15 values (`-100` to `-60` dBm) under fixed data-channel noise ($\sigma_{\text{data}}^2 \approx -85\text{ dBm}$):
 
 ```bash
 python -m results.run_noise_floor_expansion
